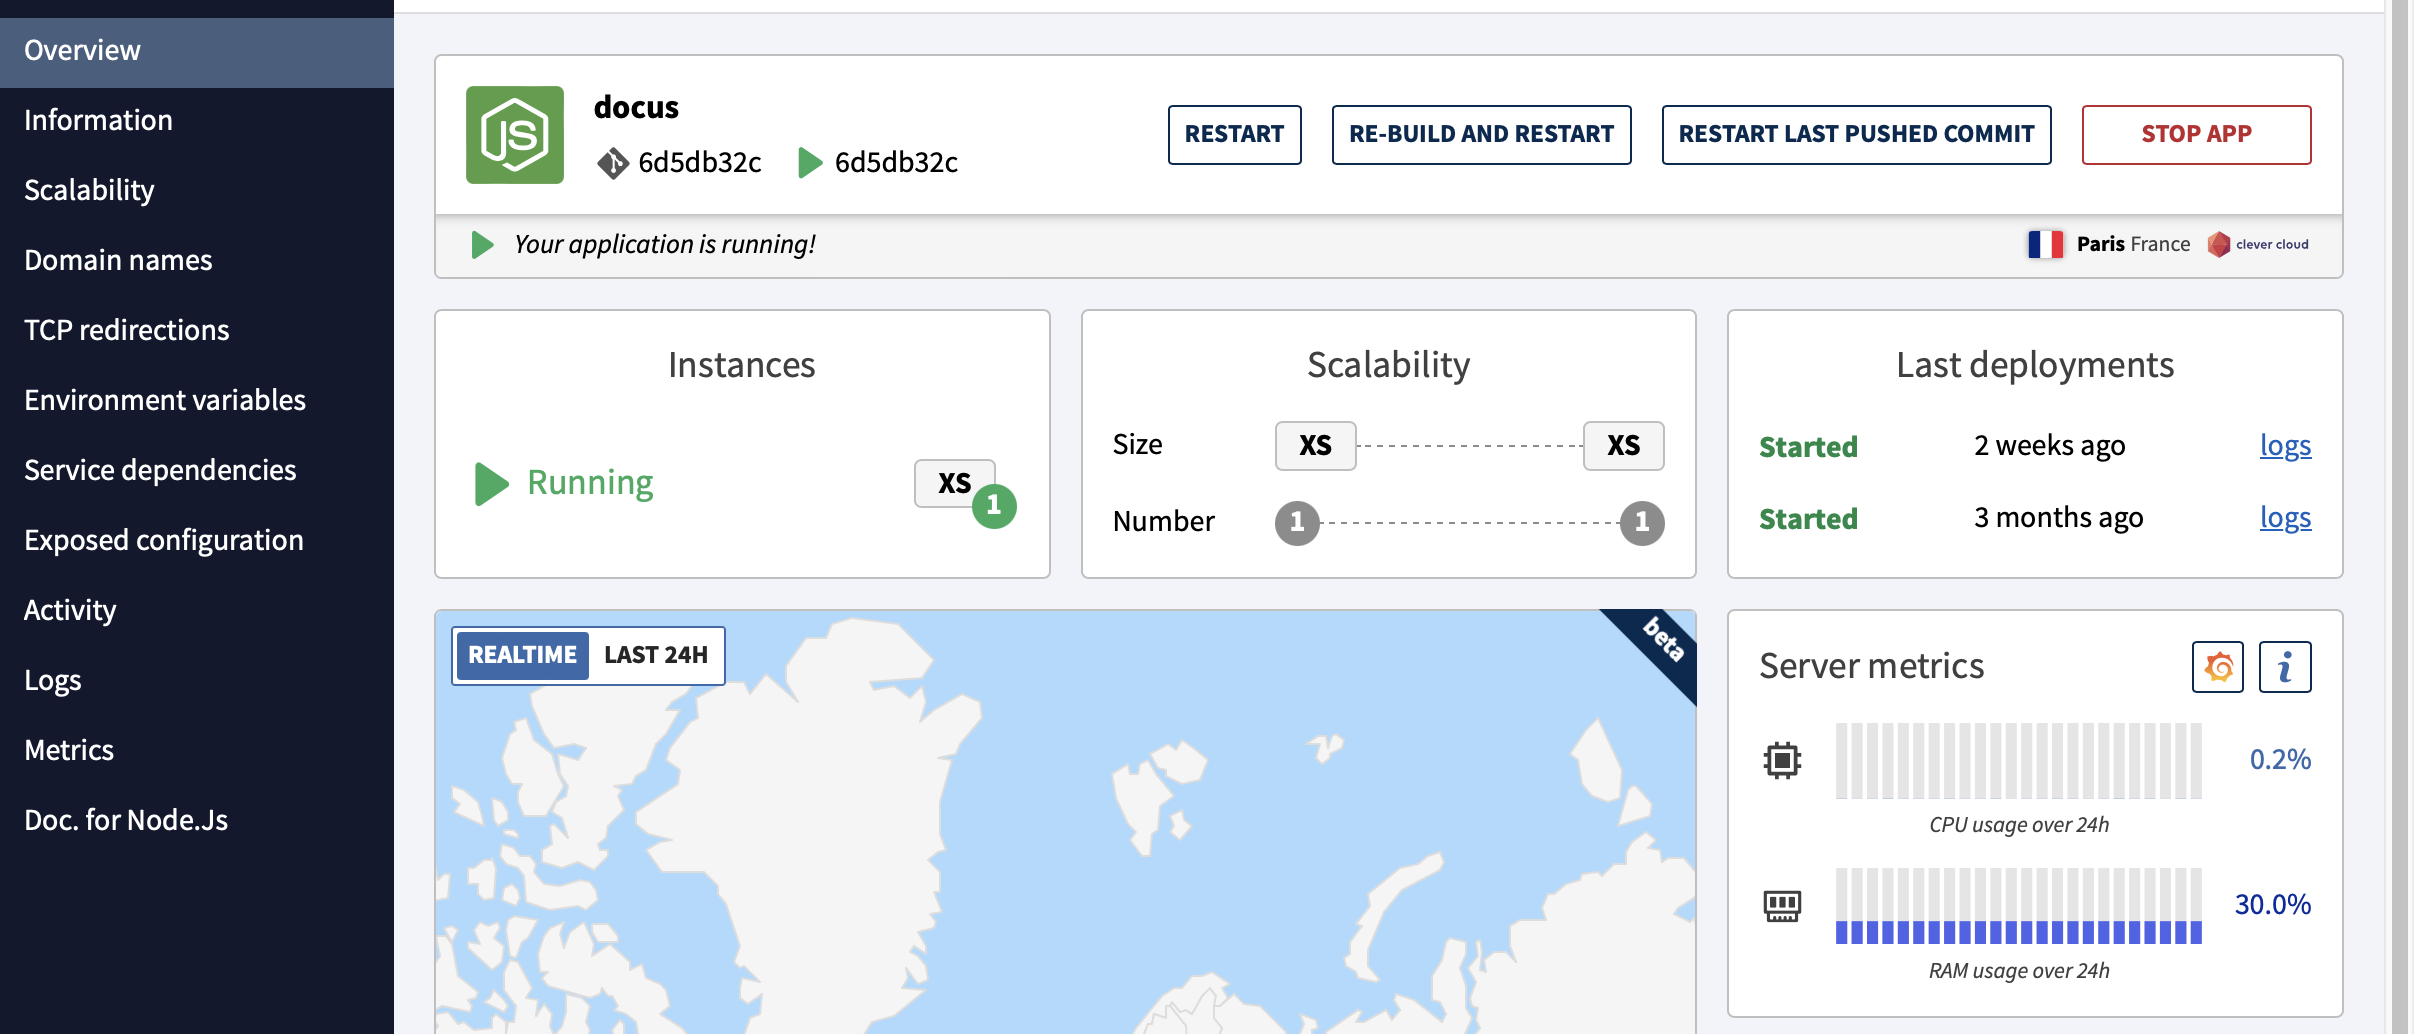
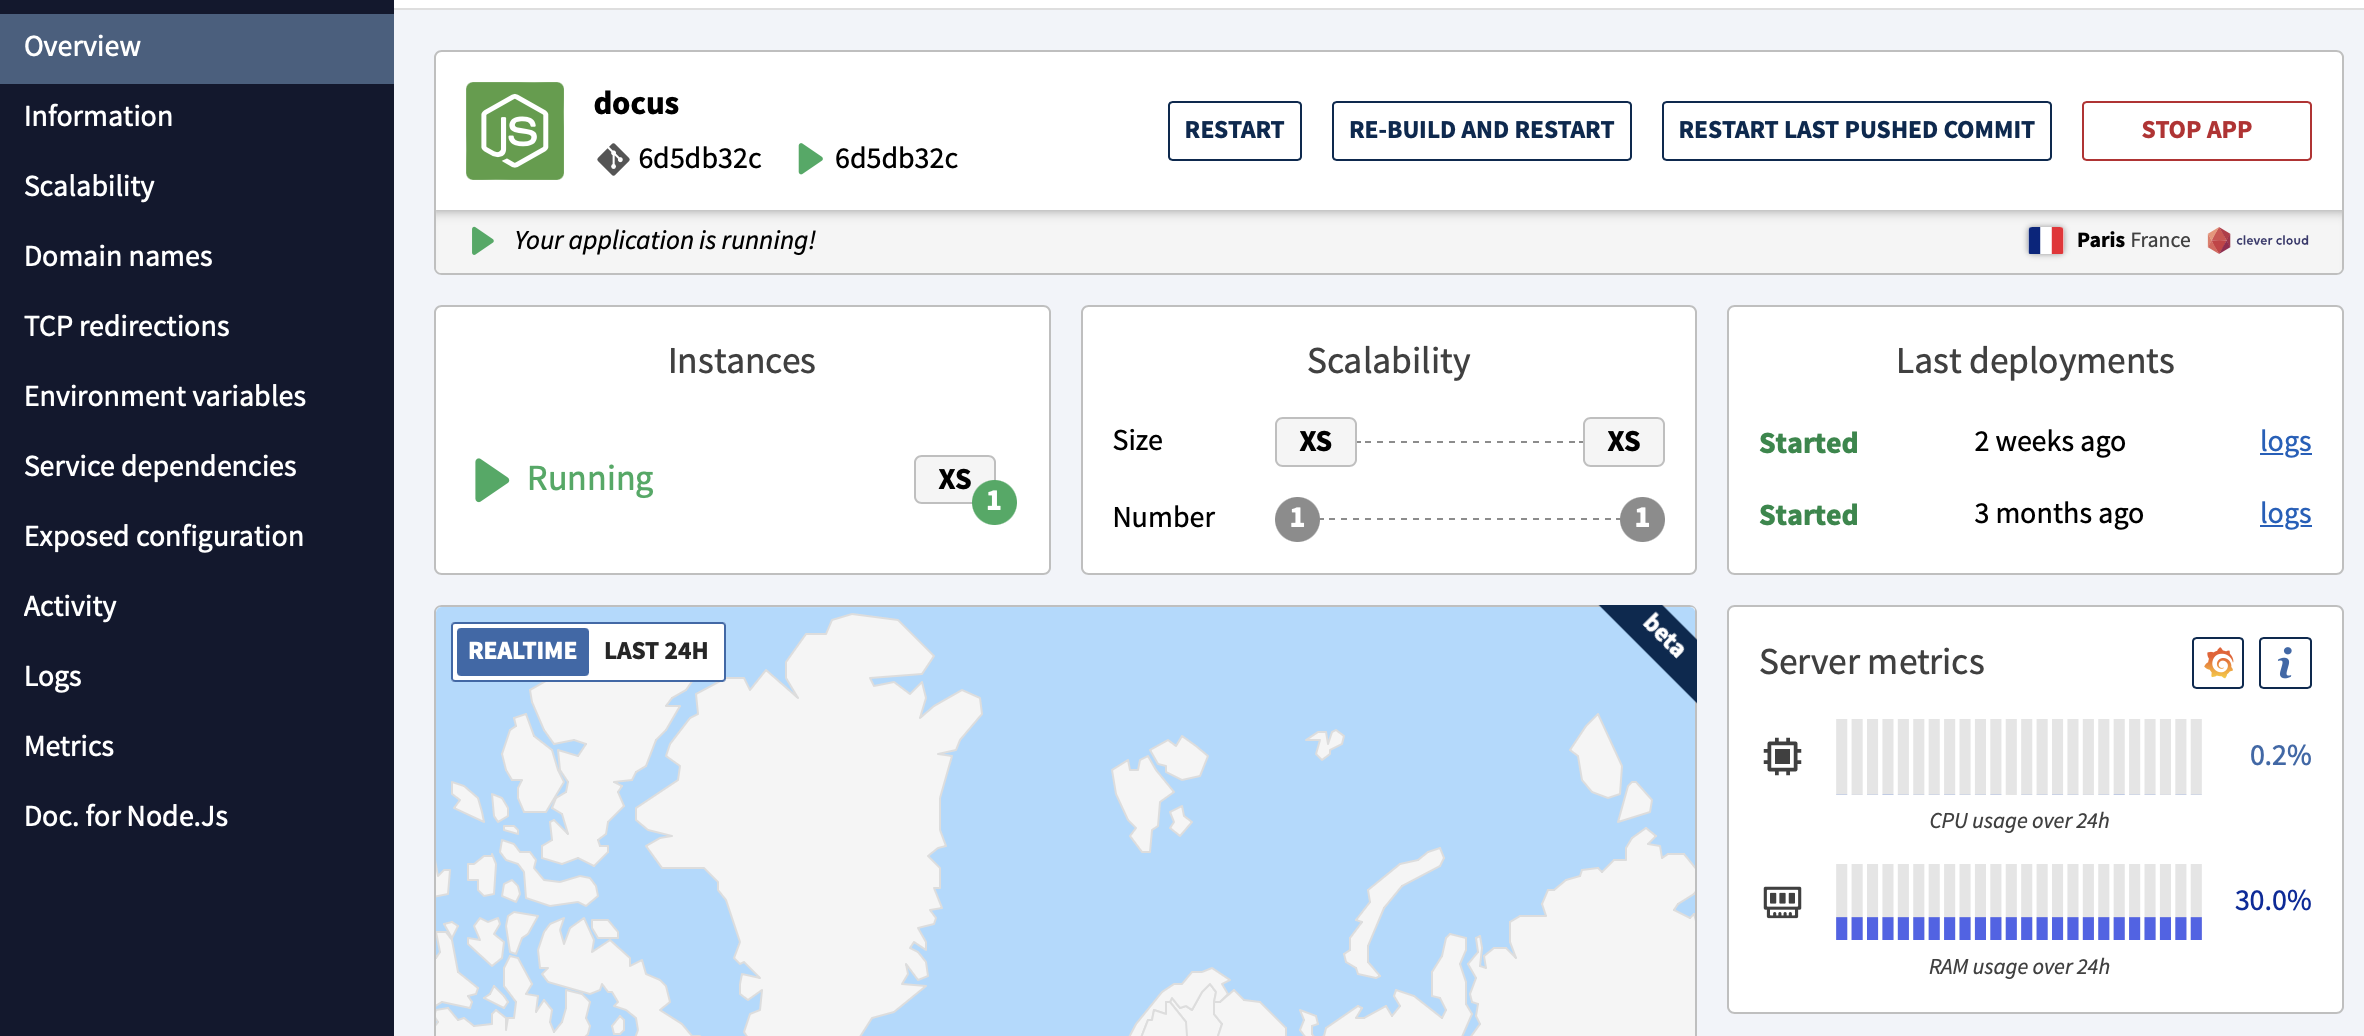
compare two images integration

diff --git a/layouts/shortcodes/imgproc.html b/layouts/shortcodes/imgproc.html
@@ -1,0 +1,60 @@
+{{- $context := . -}}
+{{- $caption := .Get "caption" -}}
+{{- $image := .Get "image" -}}
+{{- $width := 0 -}}
+{{- $height := 0 -}}
+{{- $imageStyle := .Get "imageStyle" -}}
+
+{{/* Image processing options */}}
+{{- $method := .Get "method" | default "Resize" | humanize -}}
+{{- $options := .Get "options" | default "900x webp q95" -}}
+
+{{- if and $image (not (urls.Parse $image).Scheme) -}}
+  {{/* Process images in assets */}}
+  {{- with resources.Get $image -}}
+    {{- $processed := "" -}}
+    {{- if eq $method "Resize" -}}
+      {{- $processed = (.Resize $options) -}}
+    {{- else if eq $method "Fit" -}}
+      {{- $processed = (.Fit $options) -}}
+    {{- else if eq $method "Fill" -}}
+      {{- $processed = (.Fill $options) -}}
+    {{- else if eq $method "Crop" -}}
+      {{- $processed = (.Crop $options) -}}
+    {{- else -}}
+      {{- errorf "Invalid image processing command: Must be one of Crop, Fit, Fill or Resize." -}}
+    {{- end -}}
+    {{- $width = $processed.Width -}}
+    {{- $height = $processed.Height -}}
+    {{- $image = $processed.RelPermalink -}}
+  {{- else -}}
+    {{/* Otherwise, use relative link of the image */}}
+    {{- if hasPrefix $image "/" -}}
+      {{- $image = relURL (strings.TrimPrefix "/" $image) -}}
+    {{- end -}}
+  {{- end -}}
+{{- end -}}
+
+<a
+  class="hextra-card justify-center no-underline"
+>
+<img
+alt="{{ $caption }}"
+loading="lazy"
+decoding="async"
+src="{{ $image | safeURL }}"
+{{ with $width }}width="{{ . }}"{{ end }}
+{{ with $height }}height="{{ . }}"{{ end }}
+{{ with $imageStyle }}style="{{ . | safeCSS }}"{{ end }}
+/>
+
+{{- $padding := "p-4" -}}
+{{- with $caption -}}
+  {{- $padding = "pt-4 px-4" -}}
+{{- end -}}
+
+{{- with $caption -}}
+<div class="line-clamp-3 text-sm font-normal text-gray-500 dark:text-gray-400 px-4 mb-4 mt-2 justify-center">{{- $caption | markdownify -}}</div>
+{{- end -}}
+
+</a>

diff --git a/assets/css/custom.css b/assets/css/custom.css
@@ -42,6 +42,28 @@ h1, .content h1,
 /* Images */
 .content img {
   border-radius: 0rem;
+  transition: transform 0.3s ease-in-out;
+}
+
+/* Create a pseudo-element that covers the entire page */
+body::before {
+  content: "";
+  position: fixed;
+  top: 0;
+  left: 0;
+  width: 100%;
+  height: 100%;
+  background: rgba(0, 0, 0, 0);
+  transition: background 0.3s ease-in-out;
+  z-index: 9999;
+  pointer-events: none;
+}
+.content img:hover {
+  transform: scale(2.1);
+}
+/* Darken the pseudo-element when an image is hovered over */
+.img-grid img:hover ~ body::before {
+  background: rgba(0, 0, 0, 0.5);
 }
 /* Code block */
 .code-block pre:not(.lntable pre) {
@@ -81,6 +103,17 @@ h1, .content h1,
 
 .hextra-card {
   border-radius: 0.29rem;
+}
+
+.img-grid {
+  grid-template-columns: repeat(auto-fill, minmax(max(250px, calc((100% - 1rem * 2) / var(--rows))), 1fr));
+  width: 100%; /* Add this line */
+  height: 100%; 
+}
+.img-grid.mt-4.gap-4.grid.not-prose {
+  justify-items: center;
+  align-items: center;
+
 }
 
 /* Steps

diff --git a/layouts/shortcodes/img-grid.html b/layouts/shortcodes/img-grid.html
@@ -1,0 +1,5 @@
+{{ $rows := .Get "rows" | default "2" }}
+
+<div class="img-grid mt-4 gap-4 grid not-prose" style="--rows: {{ $rows }}; ">
+  {{ .Inner }}
+</div>

diff --git a/content/doc/reference/reference-environment-variables.md b/content/doc/reference/reference-environment-variables.md
@@ -477,10 +477,10 @@ If `TAILSCALE_LOGIN_SERVER` is provided, the agent will be configured to reach a
 |[`NEW_RELIC_APP_NAME`](https://docs.newrelic.com/docs/apm/agents/java-agent/configuration/java-agent-configuration-config-file/#ev-NEW_RELIC_APP_NAME "New Relic documentation") | Contains the application name |  |
 |[`NEW_RELIC_LICENSE_KEY`](https://docs.newrelic.com/docs/apm/agents/java-agent/configuration/java-agent-configuration-config-file/#ev-NEW_RELIC_LICENSE_KEY "New Relic documentation" ) | Contains your New Relic account license | |
 |[`CC_NEWRELIC_BROWSER_MONITORING_AUTO_INSTRUMENT`](https://docs.newrelic.com/docs/apm/agents/php-agent/configuration/php-agent-configuration/#inivar-autorum "New Relic documentation" ) |  |  |  
-|[CC_NEWRELIC_DISTRIBUTED_TRACING_ENABLED](https://docs.newrelic.com/docs/apm/agents/php-agent/configuration/php-agent-configuration/#inivar-distributed-enabled "New Relic documentation" ) | | |  
-|[CC_NEWRELIC_ERROR_COLLECTOR_ENABLED](https://docs.newrelic.com/docs/apm/agents/php-agent/configuration/php-agent-configuration/#inivar-err-enabled "New Relic documentation" ) | | |  
-|[CC_NEWRELIC_TRANSACTION_TRACER_ENABLED](https://docs.newrelic.com/docs/apm/agents/php-agent/configuration/php-agent-configuration/#inivar-tt-enable "New Relic documentation" ) | | |  
-|[CC_NEWRELIC_TRANSACTION_TRACER_RECORD_SQL](https://docs.newrelic.com/docs/apm/agents/php-agent/configuration/php-agent-configuration/#inivar-tt-sql "New Relic documentation" ) | obfuscated | |  
+|[`CC_NEWRELIC_DISTRIBUTED_TRACING_ENABLED`](https://docs.newrelic.com/docs/apm/agents/php-agent/configuration/php-agent-configuration/#inivar-distributed-enabled "New Relic documentation" ) | | |  
+|[`CC_NEWRELIC_ERROR_COLLECTOR_ENABLED`](https://docs.newrelic.com/docs/apm/agents/php-agent/configuration/php-agent-configuration/#inivar-err-enabled "New Relic documentation" ) | | |  
+|[`CC_NEWRELIC_TRANSACTION_TRACER_ENABLED`](https://docs.newrelic.com/docs/apm/agents/php-agent/configuration/php-agent-configuration/#inivar-tt-enable "New Relic documentation" ) | | |  
+|[`CC_NEWRELIC_TRANSACTION_TRACER_RECORD_SQL`](https://docs.newrelic.com/docs/apm/agents/php-agent/configuration/php-agent-configuration/#inivar-tt-sql "New Relic documentation" ) | obfuscated | |  
 
 ### Pulsar
   
@@ -509,9 +509,9 @@ If `TAILSCALE_LOGIN_SERVER` is provided, the agent will be configured to reach a
 
 |  Name  |  Description  |  Default value  |  Read Only  |
 |-----------------------|------------------------------|--------------------------------|--------------------------------|
-|SOCKS_ADDON_HOST |  |  |  |
-|SOCKS_ADDON_PORT |  |  |  |
-|SOCKS_ADDON_PRIVATE_KEY |  |  |  |
+|`SOCKS_ADDON_HOST` |  |  |  |
+|`SOCKS_ADDON_PORT` |  |  |  |
+|`SOCKS_ADDON_PRIVATE_KEY` |  |  |  |
 
 ### VPN
 

diff --git a/content/doc/administrate/apps-management.md b/content/doc/administrate/apps-management.md
@@ -24,8 +24,13 @@ You can start, restart, and stop your application in the **Overview** menu of yo
 
 Stop functionality is useful during the development of the application to limit its credit consumption.
 
+{{< img-grid >}}
+{{< imgproc link="/" caption="Manage your application" image="/images/app-management.png" method="resize" options="900x q80 webp">}}
+{{< /img-grid >}}
+
+
 {{< cards >}}
-  {{< card link="/" title="Manage your application" image="/images/app-management.png" method="resize" options="900x q80 webp">}}
+{{< card link="/" title="Manage your application" image="/images/app-management.png" method="resize" options="900x q80 webp">}}
 {{< /cards >}}
 
 ## Deploy an old commit